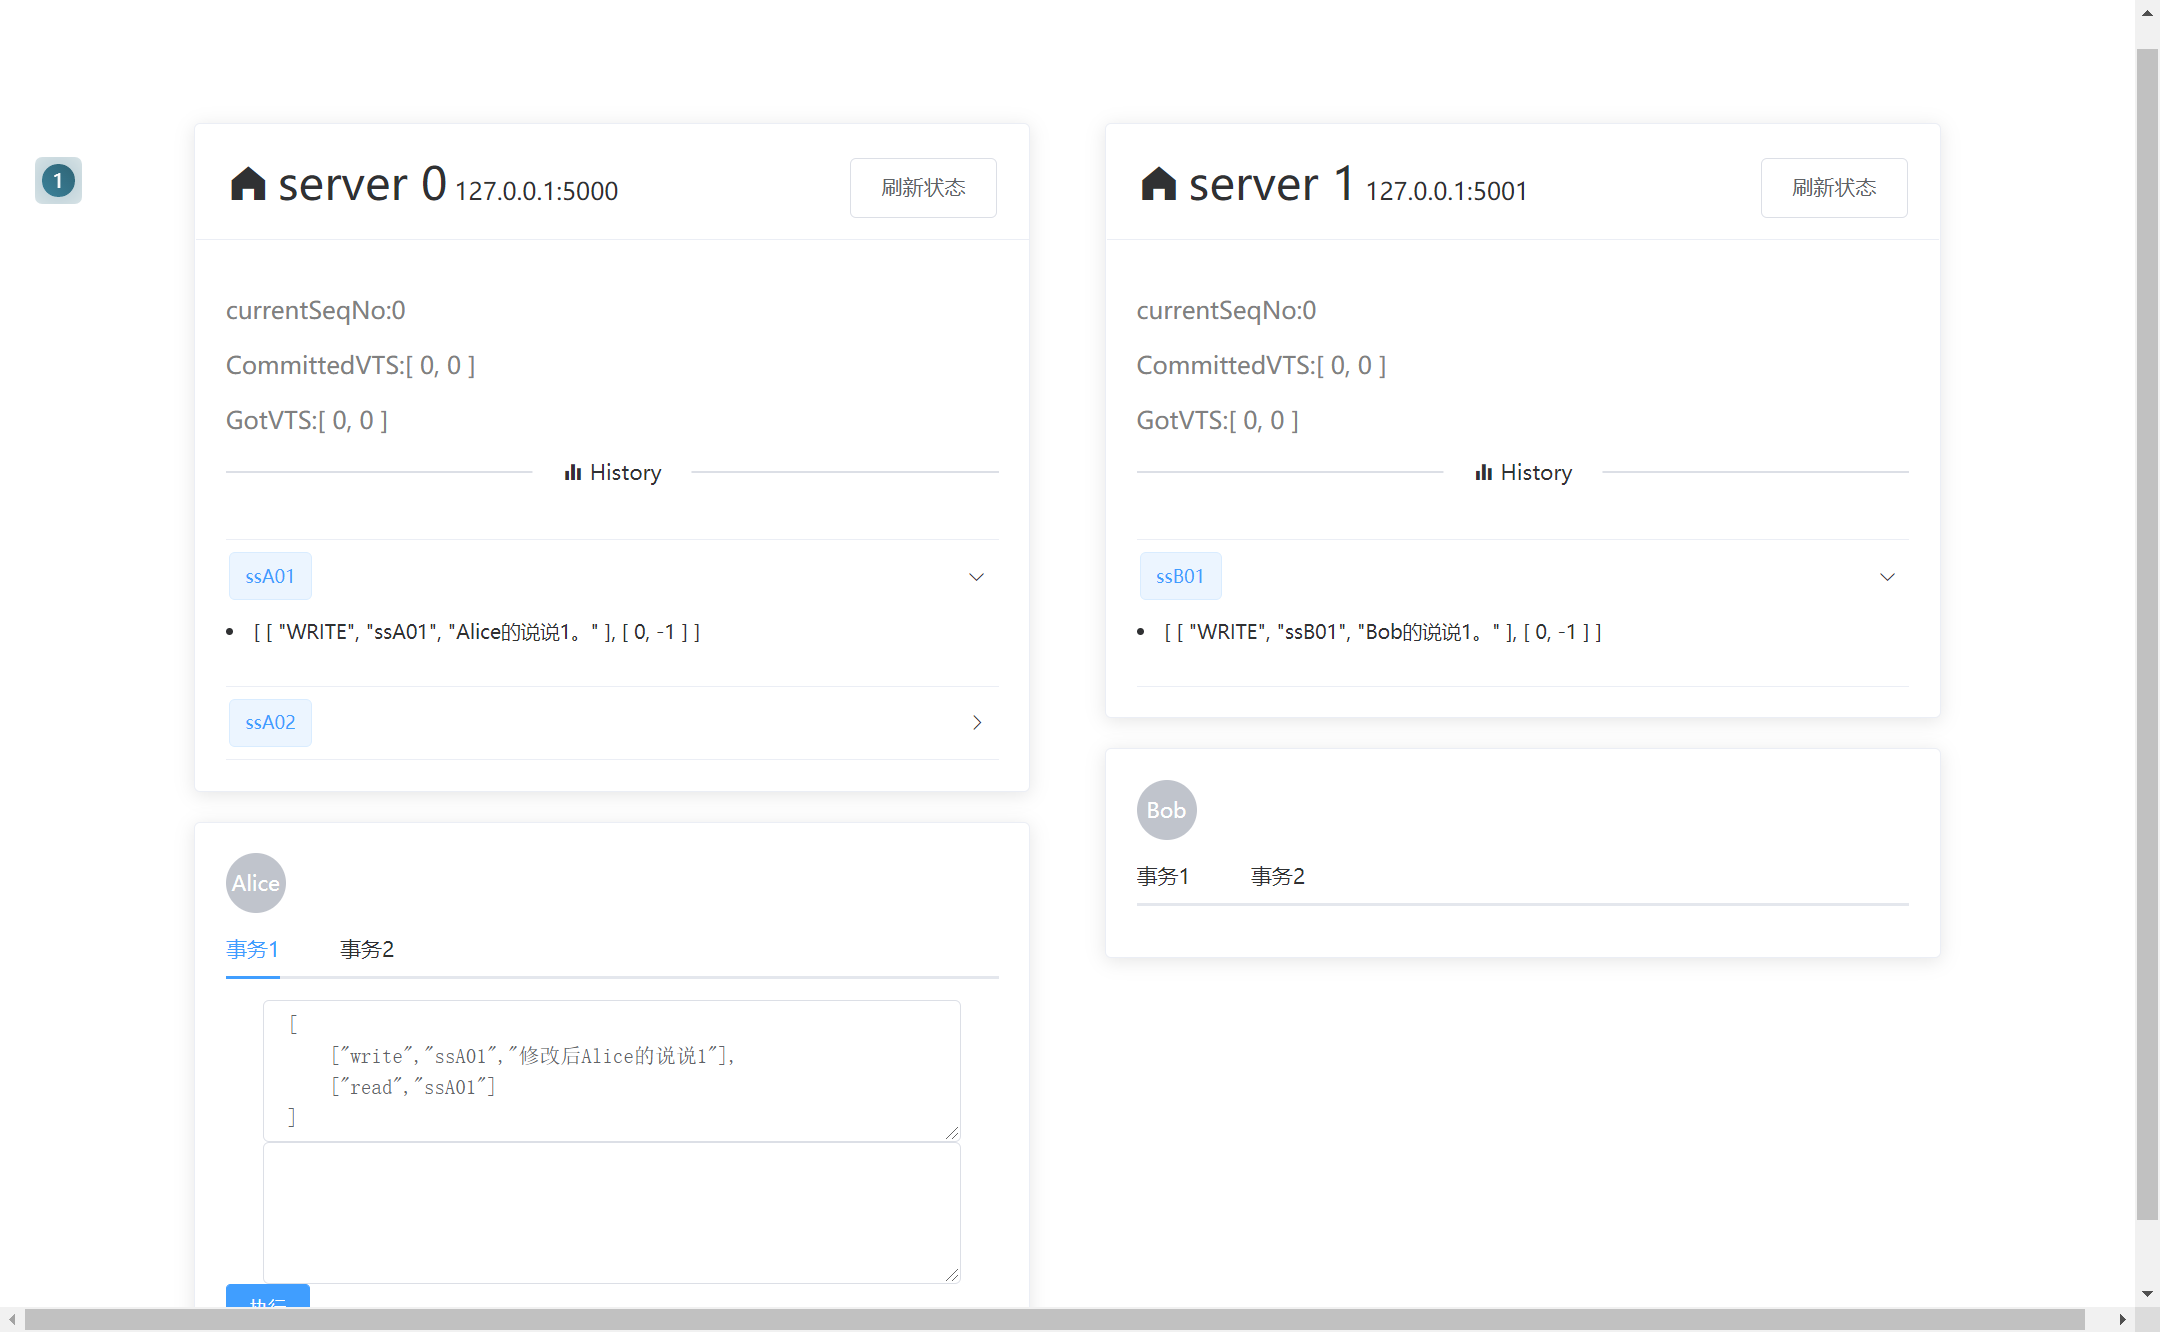
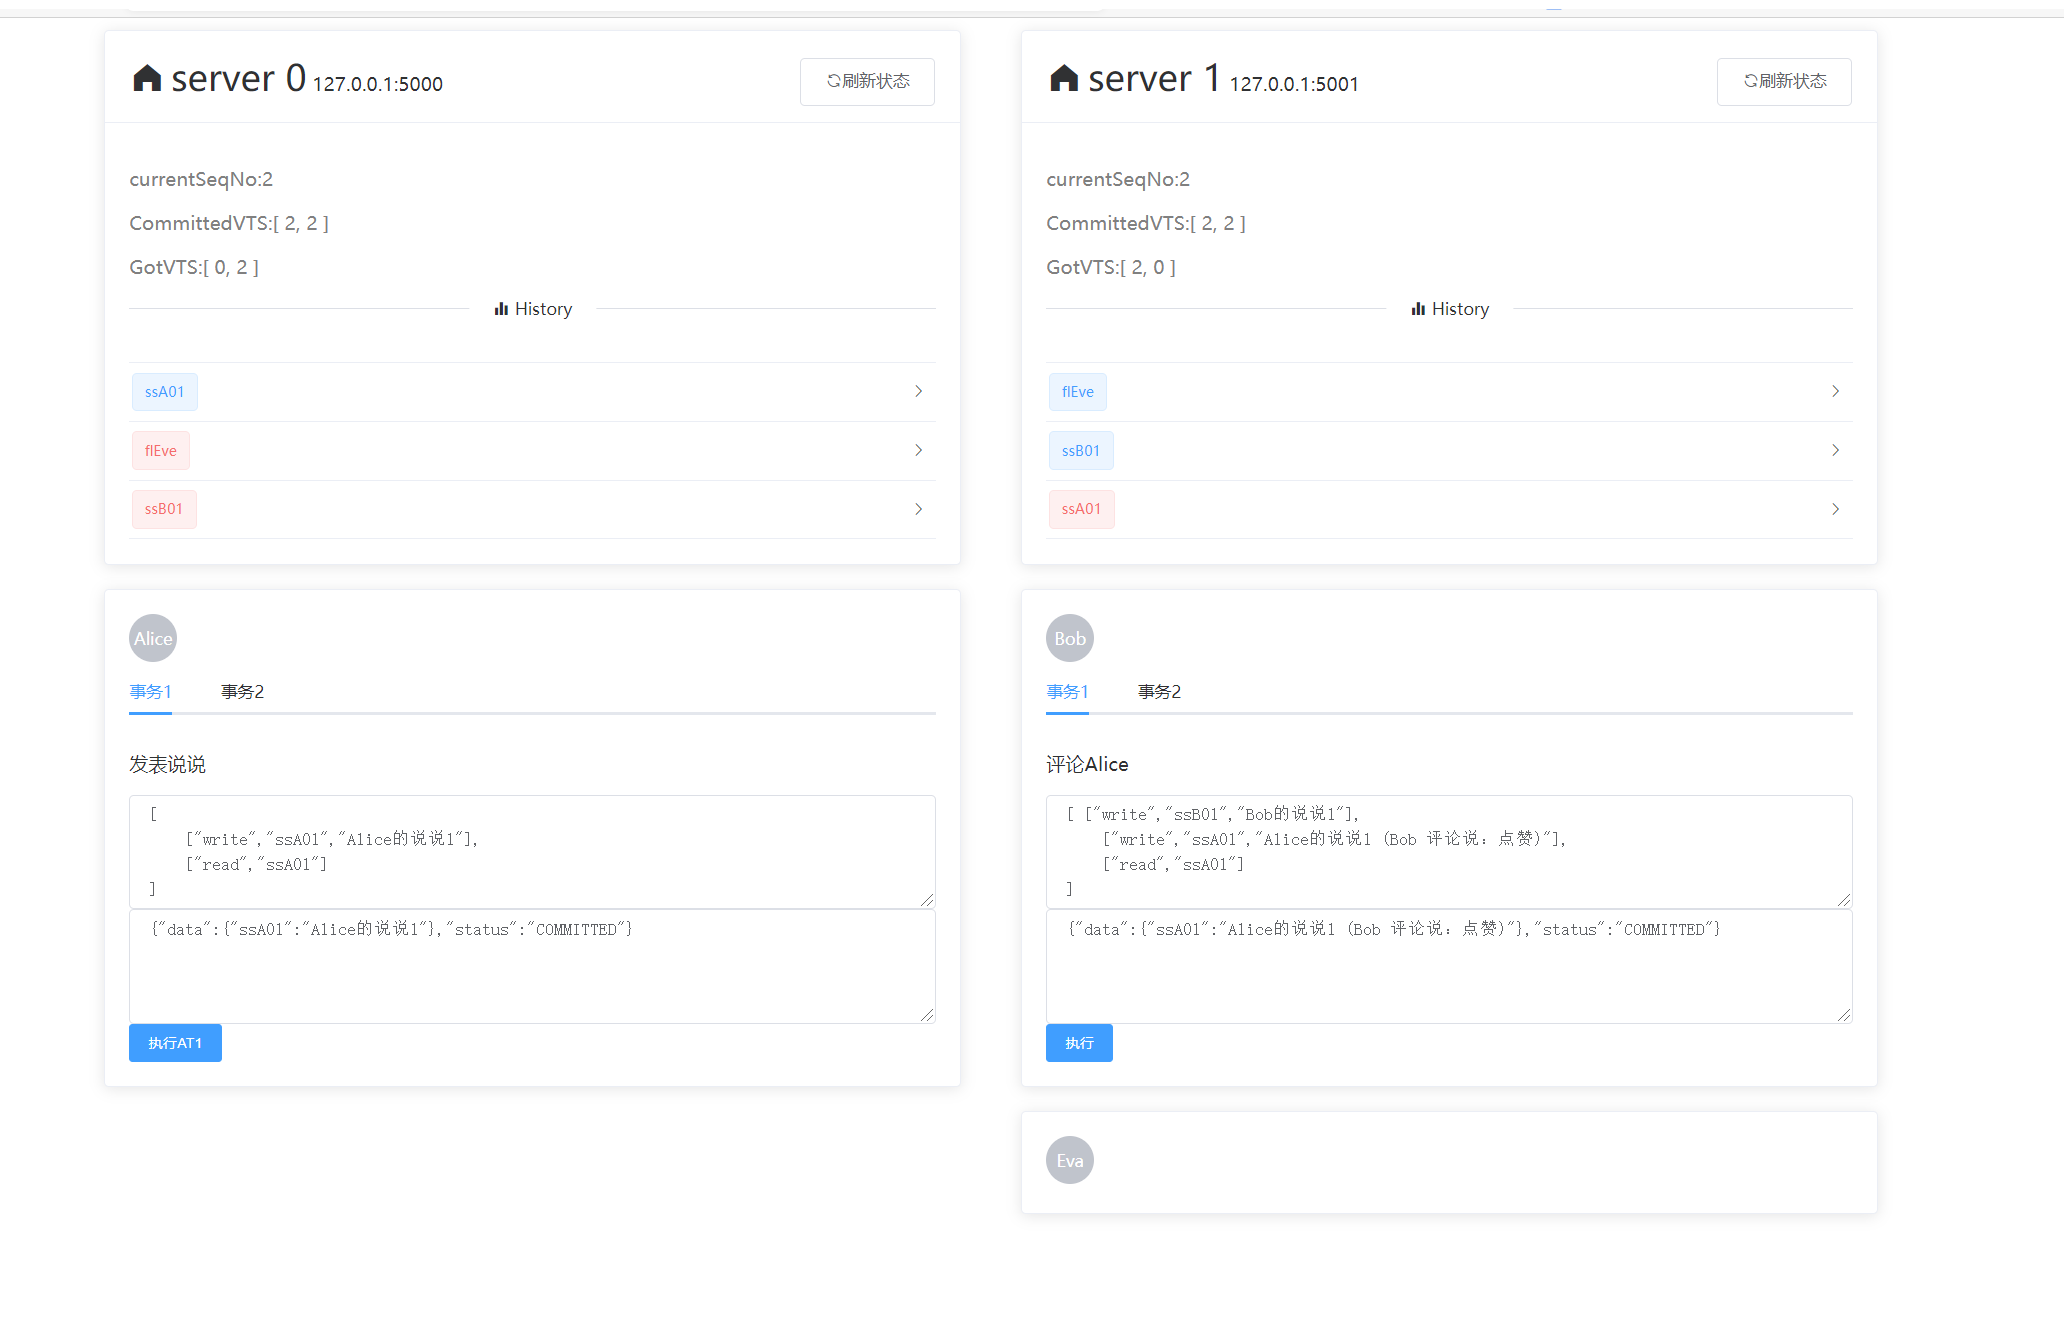
更新readme

diff --git a/frontEnd/walter.html b/frontEnd/walter.html
@@ -11,16 +11,18 @@
     <script src="https://cdn.jsdelivr.net/npm/lodash@4.13.1/lodash.min.js"></script>
     <script src="https://unpkg.com/element-ui/lib/index.js"></script>
     <script src="https://cdn.jsdelivr.net/npm/vue"></script>
-    <link rel="stylesheet" href="https://unpkg.com/element-ui/lib/theme-chalk/index.css">   
+    <link rel="stylesheet" href="https://unpkg.com/element-ui/lib/theme-chalk/index.css"> 
+    <link rel="icon" href="图标地址" type="image/x-icon">  
+    
 </head>
 <body>
     <div id="app">
-        <el-row gutter="50" justify="center" type="flex" style="margin-top: 100px;">
+        <el-row gutter="50" justify="center" type="flex" style="margin-top: 10px;">
             <el-col :span="10">
                 <el-card class="box-card" shadow="always">
                     <div slot="header" class="clearfix">
                       <span><i class="el-icon-s-home" style="font-size:30px"></i> <span style="font-size: 30px;"> server 0</span>       127.0.0.1:5000</span>
-                      <el-button style="float: right; padding: 3px 0" type="text"><el-button plain @click="flushsite00" >刷新状态</el-button></el-button>
+                      <el-button style="float: right; padding: 3px 0" type="text"><el-button plain @click="flushsite00" ><i class="el-icon-refresh"></i>刷新状态</el-button></el-button>
                     </div>
                     <div class="text item" style="color:gray">
                         <p>currentSeqNo:{{site00.currentSeqNo}}</p>
@@ -52,31 +54,33 @@
                 <div class="item text">
                     <el-tabs>
                         <el-tab-pane label="事务1" name="first">
-                            <el-col>
-                                <el-row :span="12">
-                                    <el-input
-                                    type="textarea"
-                                    :rows="4"
-                                    v-model="AliceT1">
-                                    </el-input>
-                                </el-row>
-                                <el-row :span="12">
-                                    <el-input
-                                    type="textarea"
-                                    :rows="4"
-                                    v-model="AliceT1Result">
-                                    </el-input>
-                                </el-row>
-                            </el-col>
-                            <el-button type="primary" size="small" @click="TransAliceT1">执行</el-button>
+                            <p>发表说说</p>
+                            <el-input
+                            type="textarea"
+                            :rows="4"
+                            v-model="AliceT1">
+                            </el-input>
+                            <el-input
+                            type="textarea"
+                            :rows="4"
+                            v-model="AliceT1Result">
+                            </el-input>
+                            <el-button type="primary" size="small" @click="TransAliceT1">执行AT1</el-button>
                         </el-tab-pane>
                         <el-tab-pane label="事务2" name="second">
+                            <p>添加Eva好友</p>
                             <el-input
                                 type="textarea"
                                 :rows="4"
                                 v-model="AliceT2">
                             </el-input>
-                            <el-button type="primary" size="small">执行</el-button>
+                            <el-input
+                                type="textarea"
+                                :rows="4"
+                                v-model="AliceT2Result">
+                            </el-input>
+                            <span>延迟执行/ms</span> <el-input-number v-model="AliceT2Delay"  :min="1" :max="10000" size="mini" step=500></el-input-number>
+                            <el-button type="primary" size="small" @click="TransAliceT2">执行</el-button>
                         </el-tab-pane>
                     </el-tabs>
                 </div>
@@ -86,7 +90,7 @@
                 <el-card class="box-card" shadow="always">
                     <div slot="header" class="clearfix">
                       <span><i class="el-icon-s-home" style="font-size:30px"></i> <span style="font-size: 30px;"> server 1</span>       127.0.0.1:5001</span>
-                      <el-button style="float: right; padding: 3px 0" type="text"><el-button plain @click="flushsite01">刷新状态</el-button></el-button>
+                      <el-button style="float: right; padding: 3px 0" type="text"><el-button plain @click="flushsite01"><i class="el-icon-refresh"></i>刷新状态</el-button></el-button>
                     </div>
                     <div class="text item" style="color:gray">
                         <p>currentSeqNo:{{site01.currentSeqNo}}</p>
@@ -111,7 +115,6 @@
                           </el-collapse>
                     </div>
                 </el-card>
-
                 <el-card class="box-card" style="margin-block-start: 20px;">
                     <div class="item text">
                         <el-avatar > Bob</el-avatar>
@@ -119,35 +122,39 @@
                     <div class="item text">
                         <el-tabs>
                             <el-tab-pane label="事务1" name="first">
-                                <el-col>
-                                    <el-row :span="12">
-                                        <el-input
-                                        type="textarea"
-                                        :rows="4"
-                                        v-model="BobT1">
-                                        </el-input>
-                                    </el-row>
-                                    <el-row :span="12">
-                                        <el-input
-                                        type="textarea"
-                                        :rows="4"
-                                        v-model="BobT1Result">
-                                        </el-input>
-                                    </el-row>
-                                </el-col>
-                                <el-button type="primary" size="small" @click="TransBobT1">执行</el-button>
-                            </el-tab-pane>
-                            <el-tab-pane label="事务2" name="second">
+                                <p>评论Alice</p>
                                 <el-input
                                     type="textarea"
                                     :rows="4"
-                                    v-model="AliceT2">
+                                    v-model="BobT1">
                                 </el-input>
-                                <el-button type="primary" size="small">执行</el-button>
+                                <el-input
+                                    type="textarea"
+                                    :rows="4"
+                                    v-model="BobT1Result">
+                                </el-input>
+                                <el-button type="primary" size="small" @click="TransBobT1">执行</el-button>
+                            </el-tab-pane>
+                            <el-tab-pane label="事务2" name="second">
+                                <p>添加Eva好友</p>
+                                <el-input
+                                    type="textarea"
+                                    :rows="4"
+                                    v-model="BobT2">
+                                </el-input>
+                                <el-input
+                                    type="textarea"
+                                    :rows="4"
+                                    v-model="BobT2Result">
+                                </el-input>
+                                <el-button type="primary" size="small" @click="TransBobT2">执行</el-button>
                             </el-tab-pane>
                         </el-tabs>
                     </div>
-                    </el-card>
+                </el-card>
+                <el-card lass="box-card" style="margin-block-start: 20px;">
+                    <el-avatar > Eva</el-avatar>
+                </el-card>
             </el-col>
         </el-row>
     </div>
@@ -159,14 +166,33 @@
     new Vue({
         el: '#app',
         data:{
-            "site00":{},
-            "site01":{},
-            //Alice的事务
+            site00:{},
+            site01:{},
+            //定时
+            timer:null,
+            //AliceT2的执行延时
+            AliceT2Delay:1000,
+            //Alice的事务T1
             AliceT1:"[\n\
-    [\"write\",\"ssA01\",\"修改后Alice的说说1\"],\n\
+    [\"write\",\"ssA01\",\"Alice的说说1\"],\n\
     [\"read\",\"ssA01\"]\n\
 ]",
-            AliceT1Result:""
+            AliceT1Result:"",
+            AliceT2:"[\n\
+    [\"setAdd\",\"flEve\",\"Alice\"],\n\
+    [\"setRead\",\"flEve\"]\n\
+]",
+            AliceT2Result:"",
+            //Bob的事务T1 T2
+            BobT1:"[ [\"write\",\"ssB01\",\"Bob的说说1\"],\n\
+    [\"write\",\"ssA01\",\"Alice的说说1 (Bob 评论说：点赞)\"],\n\
+    [\"read\",\"ssA01\"]\n\
+]",         BobT1Result:"",
+            BobT2:"[\n\
+    [\"setAdd\",\"flEve\",\"Bob\"],\n\
+    [\"setRead\",\"flEve\"]\n\
+]",
+            BobT2Result:""
             },
         methods:{
             //刷新site00
@@ -175,6 +201,11 @@
                 axios.get('http://127.0.0.1:5000/flush')
                      .then(function(res){
                         vm.site00=res.data
+                        //暂停一段时间后联合更新
+                        clearTimeout(this.timer);  
+                        this.timer = setTimeout(()=>{   
+                            vm.flushsite01()
+                        },500);
                      })
                      .catch(function(erroe){
                         console.log("请求API失败")
@@ -197,12 +228,57 @@
                      .then(function(res){
                         console.log("请求API成功")
                         vm.AliceT1Result=JSON.stringify(res.data)
+                        vm.flushsite00()
                      })
                      .catch(function(erroe){
                         console.log("请求API失败")
                      })
                 },
-            },
+            //上传事务AliceT2
+            TransAliceT2:function(){
+
+                clearTimeout(this.timer);  //清除延迟执行
+ 
+                this.timer = setTimeout(()=>{   //设置延迟执行
+                    var vm=this;
+                    axios.post('http://127.0.0.1:5000/transaction',JSON.parse(this.AliceT2))
+                     .then(function(res){
+                        console.log("AT2请求API成功")
+                        vm.AliceT2Result=JSON.stringify(res.data)
+                        vm.flushsite00()
+                     })
+                     .catch(function(erroe){
+                        console.log("AT1请求API失败")
+                     })
+                },this.AliceT2Delay);
+                },
+            //上传事务BobT1
+            TransBobT1:function(){
+                var vm=this;
+                axios.post('http://127.0.0.1:5001/transaction',JSON.parse(this.BobT1))
+                     .then(function(res){
+                        console.log("请求API成功")
+                        vm.BobT1Result=JSON.stringify(res.data)
+                        vm.flushsite01()
+                     })
+                     .catch(function(erroe){
+                        console.log("请求API失败")
+                     })
+                },
+            //上传事务AliceT2
+            TransBobT2:function(){
+                var vm=this;
+                axios.post('http://127.0.0.1:5001/transaction',JSON.parse(this.BobT2))
+                     .then(function(res){
+                        console.log("请求API成功")
+                        vm.BobT2Result=JSON.stringify(res.data)
+                        vm.flushsite01()
+                     })
+                     .catch(function(erroe){
+                        console.log("请求API失败")
+                     })
+                },
+        }
     })
 </script>
 </html>

diff --git a/README.md b/README.md
@@ -1,13 +1,45 @@
-<!--
- * @Author: Theo_hui
- * @Date: 2020-10-12 14:04:12
- * @Descripttion: 
--->
 ### WalterSim
 
 > 使用Flask和Vue模拟出Walter系统的情况
+>
+> 论文 《Transactional storage for geo-replicated systems》
 
 #### 后端演示图片
 ![](./imgs/site2.png)
 #### 前端演示图片
 ![](./imgs/client2.png)
+
+#### 运行:rocket:
+##### 1. 启动后端
+```cmd
+cd .\backEnd\
+python server00.py
+python server01.py
+```
+##### 2. 启动前端
+浏览器中打开
+
+
+#### 模拟说明 :partly_sunny:
+- 分别模拟了两个站点 
+    - site00 
+    - site01
+- 三个用户及首选站点
+    - Alice  site00  ssA01 (regular object)
+    - Bob   site01  ssB01 (regular object)
+    - Eva    site01  flEva    (cset)
+- 四个预置事务
+    - Alice发表说说
+        1. Alice写数据到ssA01
+        2. Alice读取ssA01
+    - Bob发表说说并评论Alice
+        1. Bob写数据到ssB01
+        2. Bob重写ssA01
+        3. Bob读取ssA01
+    - Alice添加Eva好友 （可指定延时与下面冲突）
+        1. Alice写flEva
+        2. 读取flEva
+    - Bob添加Eva好友 （可指定延时）
+        1. Bob写flEva
+        2. 读取flEva
+    
